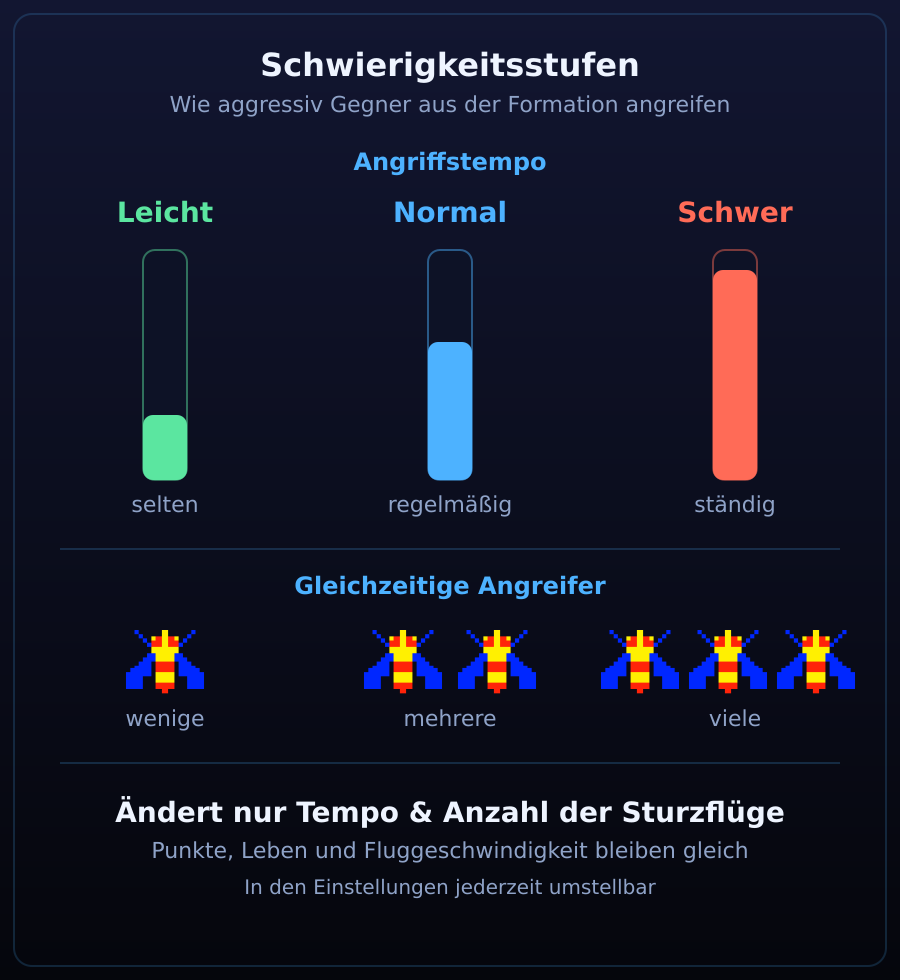
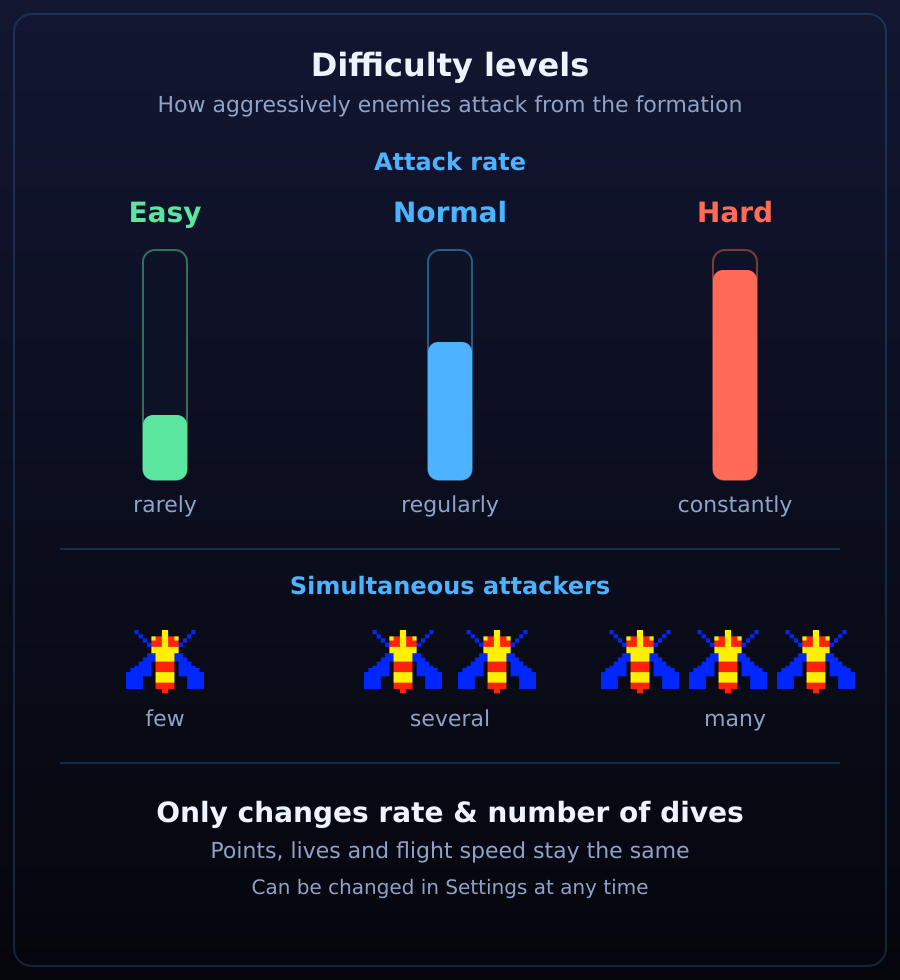
UI komplett ins Englische übersetzt
Galaga war das einzige Projekt mit deutscher Oberfläche (tetris/pacman sind
Englisch) — Nutzerwunsch, Englisch ist ab jetzt Standard für jedes Spiel
(globale CLAUDE.md, Design-Vorgabe 15, Ausnahme gestrichen).

- menus.gd: alle Buttons/Titel/Dialoge/Stepper-Labels/Summary- und
  Game-Over-Texte, Hilfe-Seitentitel; Textfeld-Wert "aus" -> "off"
  (Eingabe akzeptiert weiterhin auch "aus")
- game_settings.gd: DIFF_NAMES Easy/Normal/Hard
- game.gd: "BEREIT"-Banner -> "READY"
- sound_manager.gd: 15 Anzeigenamen der Sound-Unterseite (Keys unverändert)
- assets/help_src/*.svg: eingebackener Text aller 7 Hilfe-Grafiken übersetzt
  und neu gerendert; bonus.svg: rechter Pfeil etwas höher (Spitze berührte
  das längere "collect")

Headless verifiziert (_selftest.gd, Sichtprüfung der 7 PNGs).

diff --git a/CLAUDE.md b/CLAUDE.md
@@ -1524,6 +1524,46 @@ Boss-Default 10000.**
   löscht den Deckel und behält die Anforderung. Alle 9 Checks grün,
   `_selftest.gd` grün. Skript danach wieder gelöscht.
 
+**Siebzehnte Playtest-Runde (2026-09-14): komplette UI-Übersetzung ins
+Englische.** Nutzerwunsch — Galaga war das einzige Projekt mit deutscher UI
+(tetris/pacman sind Englisch), die frühere „Galaga bleibt deutsch"-Ausnahme
+in der globalen CLAUDE.md ist damit gestrichen: Englisch ist ab jetzt
+Standard für JEDES Spiel hier. **Alle älteren Abschnitte dieser Datei zitieren
+noch die deutschen Bezeichnungen** („Fertig", „Weiter", „Start-Menü", „Sieg
+bei X Punkten", „BEREIT", „Standardwerte", „Eintragen", „Nochmal" …) —
+das sind historische Beschreibungen, nicht der aktuelle Stand. Mapping:
+- Buttons/Screens (`menus.gd`): Spielen→Play, Einstellungen→Settings,
+  Highscores→High Scores, Hilfe→How to Play, Beenden→Exit, Weiter→Resume
+  (Pause) bzw. Continue (Summary), Start-Menü→Main Menu, Nochmal→Play Again,
+  Eintragen→Enter, Fertig→Done, Standardwerte→Defaults, Ja/Nein→Yes/No,
+  „Neu starten?"→„Restart?", „Zurücksetzen?"→„Reset?", SIEG!→YOU WIN!.
+- Stepper: Leben→Lives, Extra-Leben→Extra life, Boss alle X Punkte→Boss every
+  X points, Sieg bei X Punkten→Win at X points, Max. Schüsse→Max. shots,
+  Schwierigkeit→Difficulty; `GameSettings.DIFF_NAMES` Leicht/Normal/Schwer→
+  Easy/Normal/Hard; Textfeld-Wert „aus"→„off" (die Eingabe akzeptiert
+  weiterhin auch „aus", damit Gewohnheit nicht zum Fehler wird).
+- Summary/Game Over: Gerettete Schiffe→Rescued ships, Gesamtpunktzahl→Total
+  score, Runden→laps, „Neuer Highscore — Platz N!"→„New high score — rank
+  N!", „N Pkt."→„N pts", Leerzustände („keine Gegner abgeschossen", „noch
+  keine Einträge") ebenfalls.
+- HUD: „BEREIT"→„READY" (`game.gd`); „STAGE n"/„LAP!"/„Laps n" waren schon
+  Englisch.
+- Sound-Unterseite: alle 15 Anzeigenamen in `sound_manager.gd::SOUNDS`
+  (Menü-Musik→Menu music, Schuss→Shot, Traktorstrahl-Fang→Tractor beam
+  capture, …). Keys/Dateinamen unverändert, `CALIB_VERSION` unverändert
+  (nur Anzeige, keine Bedeutungsänderung).
+- Hilfe: Seitentitel in `HELP_PAGES_DESKTOP/_TOUCH` (Steuerung — Tastatur→
+  Controls — Keyboard usw.) UND der eingebackene Text in allen 7
+  `assets/help_src/*.svg` (per Skript ersetzt, neu gerendert, alle 7 PNGs
+  einzeln gegengeprüft — einzige nötige Layoutkorrektur: in `bonus.svg`
+  den rechten Pfeil etwas höher gesetzt, die Spitze berührte sonst das
+  längere englische „collect").
+- Nicht angefasst: Code-Kommentare, die alte deutsche Labels zitieren (rein
+  erklärend), Persistenz-Keys, Signalnamen. Doku/Commits bleiben Deutsch.
+- Verifikation headless (`_selftest.gd` grün, Parse-Check aller Skripte) +
+  Sichtprüfung der 7 gerenderten Hilfe-PNGs; kein Live-MCP-Test, da parallel
+  die Pac-Man-Session einen Editor offen hatte (siehe sechzehnte Runde).
+
 ## Gameplay-Architektur (alles im Code, wie tetris)
 
 Main-Scene `game.tscn` (Node2D `Game` + `game.gd`): SpaceBackground, Formation,
